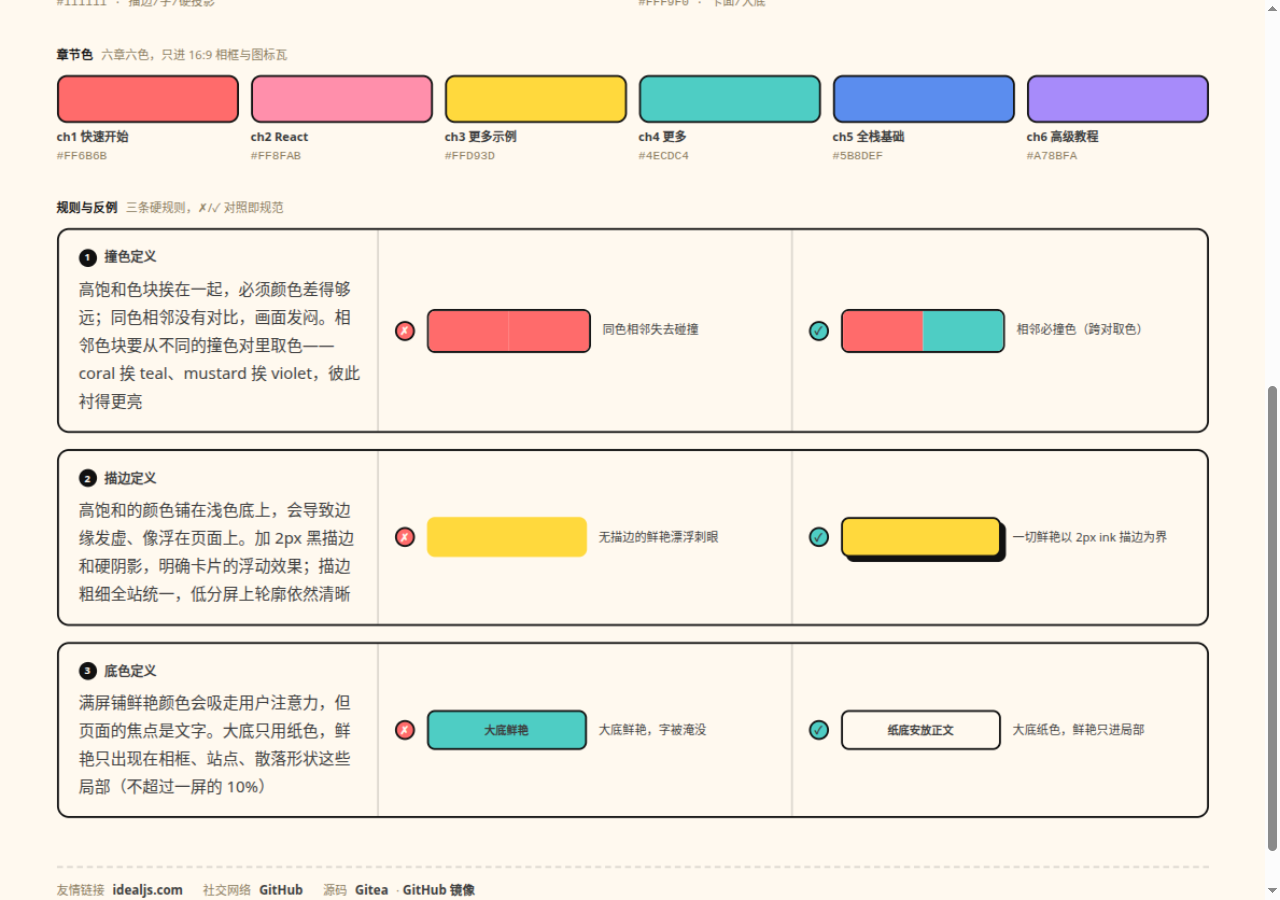
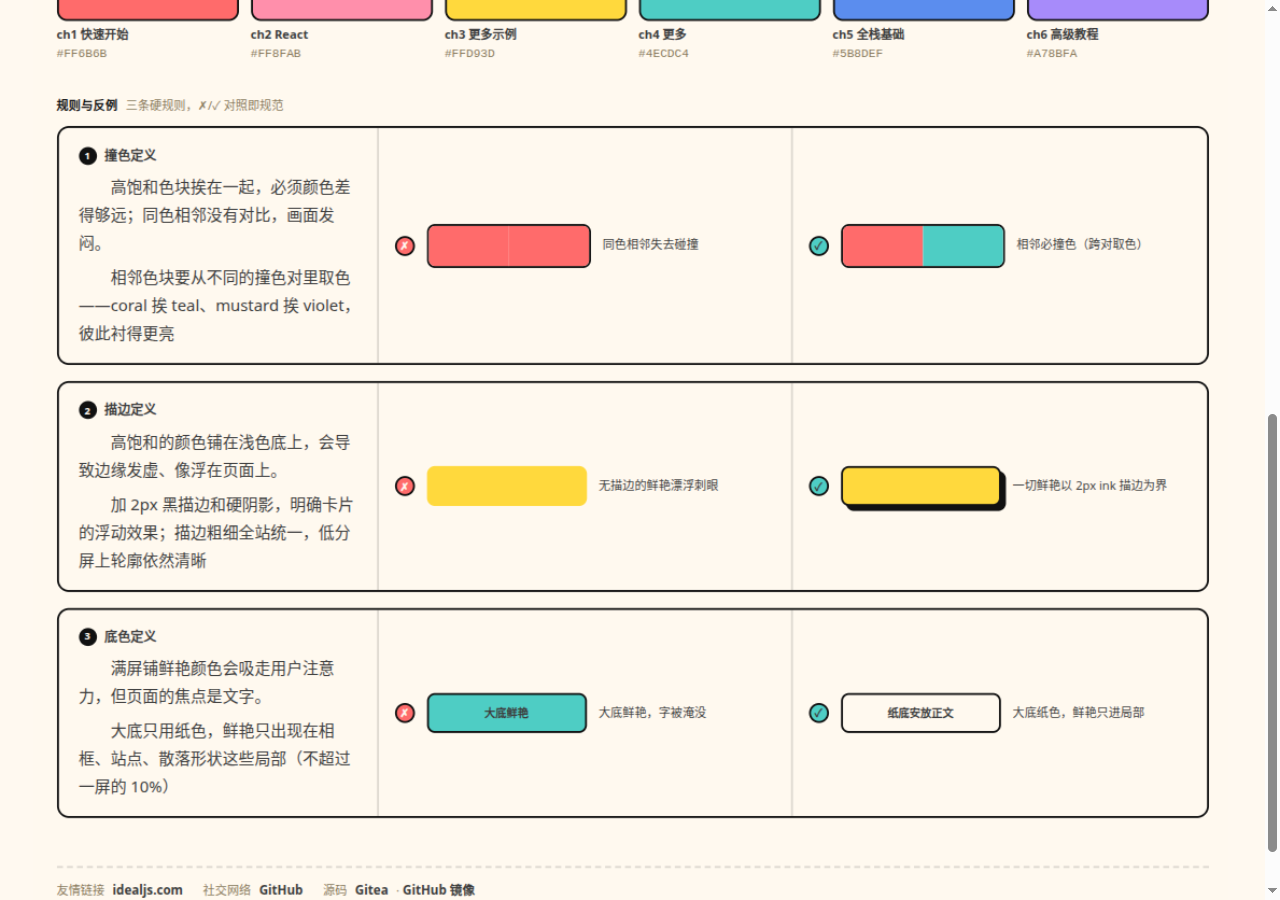
fix: 规则说明拆段＋首行缩进 2em——长说明按「为什么／怎么做」分两段落，中文排版首行让位

diff --git a/apps/tutorial/src/pages/design-colors/App.tsx b/apps/tutorial/src/pages/design-colors/App.tsx
@@ -36,7 +36,10 @@ function Chip({ c, n, h }: { c: string; n: string; h: string }) {
 const RULES = [
   {
     name: '撞色定义',
-    note: '高饱和色块挨在一起，必须颜色差得够远；同色相邻没有对比，画面发闷。相邻色块要从不同的撞色对里取色——coral 挨 teal、mustard 挨 violet，彼此衬得更亮',
+    note: [
+      '高饱和色块挨在一起，必须颜色差得够远；同色相邻没有对比，画面发闷。',
+      '相邻色块要从不同的撞色对里取色——coral 挨 teal、mustard 挨 violet，彼此衬得更亮',
+    ],
     badCap: '同色相邻失去碰撞',
     goodCap: '相邻必撞色（跨对取色）',
     badDemo: (
@@ -54,7 +57,10 @@ const RULES = [
   },
   {
     name: '描边定义',
-    note: '高饱和的颜色铺在浅色底上，会导致边缘发虚、像浮在页面上。加 2px 黑描边和硬阴影，明确卡片的浮动效果；描边粗细全站统一，低分屏上轮廓依然清晰',
+    note: [
+      '高饱和的颜色铺在浅色底上，会导致边缘发虚、像浮在页面上。',
+      '加 2px 黑描边和硬阴影，明确卡片的浮动效果；描边粗细全站统一，低分屏上轮廓依然清晰',
+    ],
     badCap: '无描边的鲜艳漂浮刺眼',
     goodCap: '一切鲜艳以 2px ink 描边为界',
     badDemo: <div className="h-10 w-40 rounded-lg bg-clash2a" />,
@@ -62,7 +68,10 @@ const RULES = [
   },
   {
     name: '底色定义',
-    note: '满屏铺鲜艳颜色会吸走用户注意力，但页面的焦点是文字。大底只用纸色，鲜艳只出现在相框、站点、散落形状这些局部（不超过一屏的 10%）',
+    note: [
+      '满屏铺鲜艳颜色会吸走用户注意力，但页面的焦点是文字。',
+      '大底只用纸色，鲜艳只出现在相框、站点、散落形状这些局部（不超过一屏的 10%）',
+    ],
     badCap: '大底鲜艳，字被淹没',
     goodCap: '大底纸色，鲜艳只进局部',
     badDemo: (
@@ -149,7 +158,11 @@ export function App() {
                   </span>
                   <b className="text-[13px]">{r.name}</b>
                 </div>
-                <p className="m-0 text-content text-body">{r.note}</p>
+                {r.note.map((para) => (
+                  <p key={para} className="m-0 indent-[2em] text-content text-body">
+                    {para}
+                  </p>
+                ))}
               </div>
               <DoDont bad text={r.badCap}>
                 {r.badDemo}
